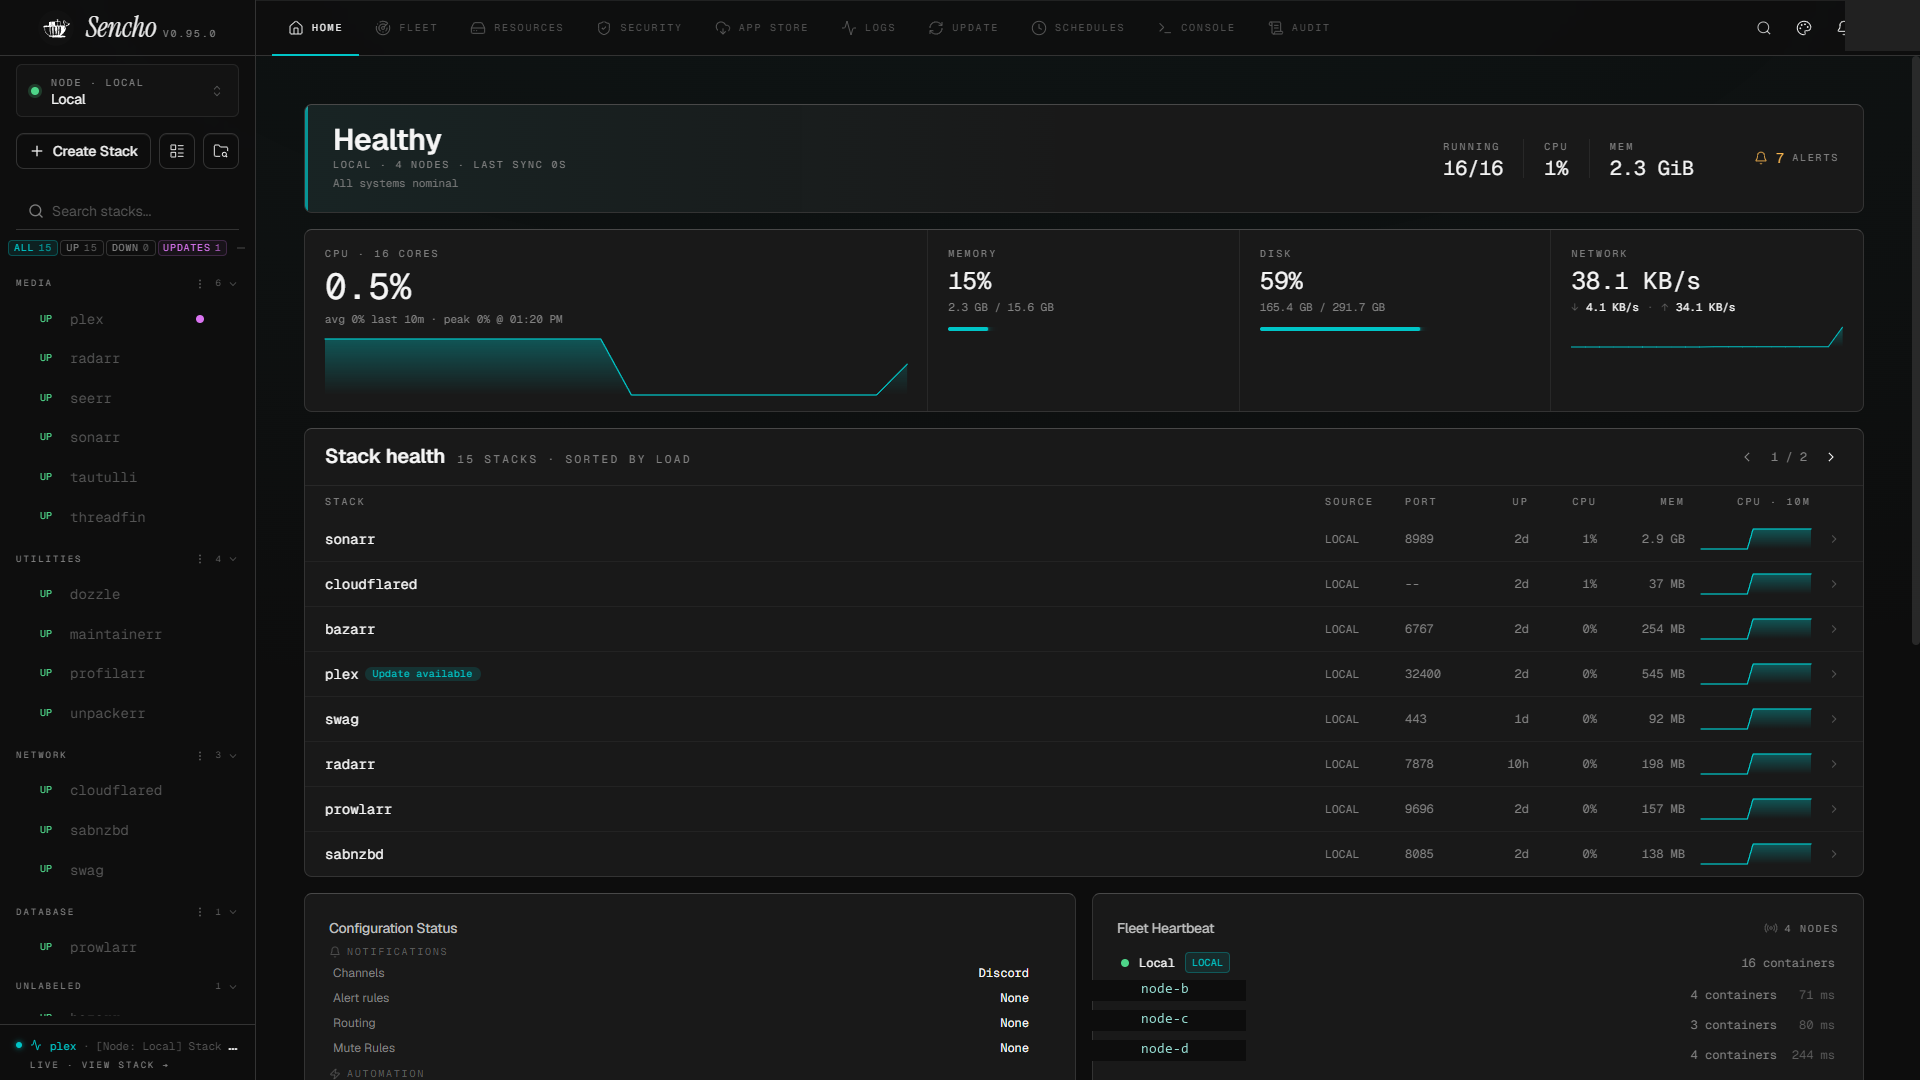
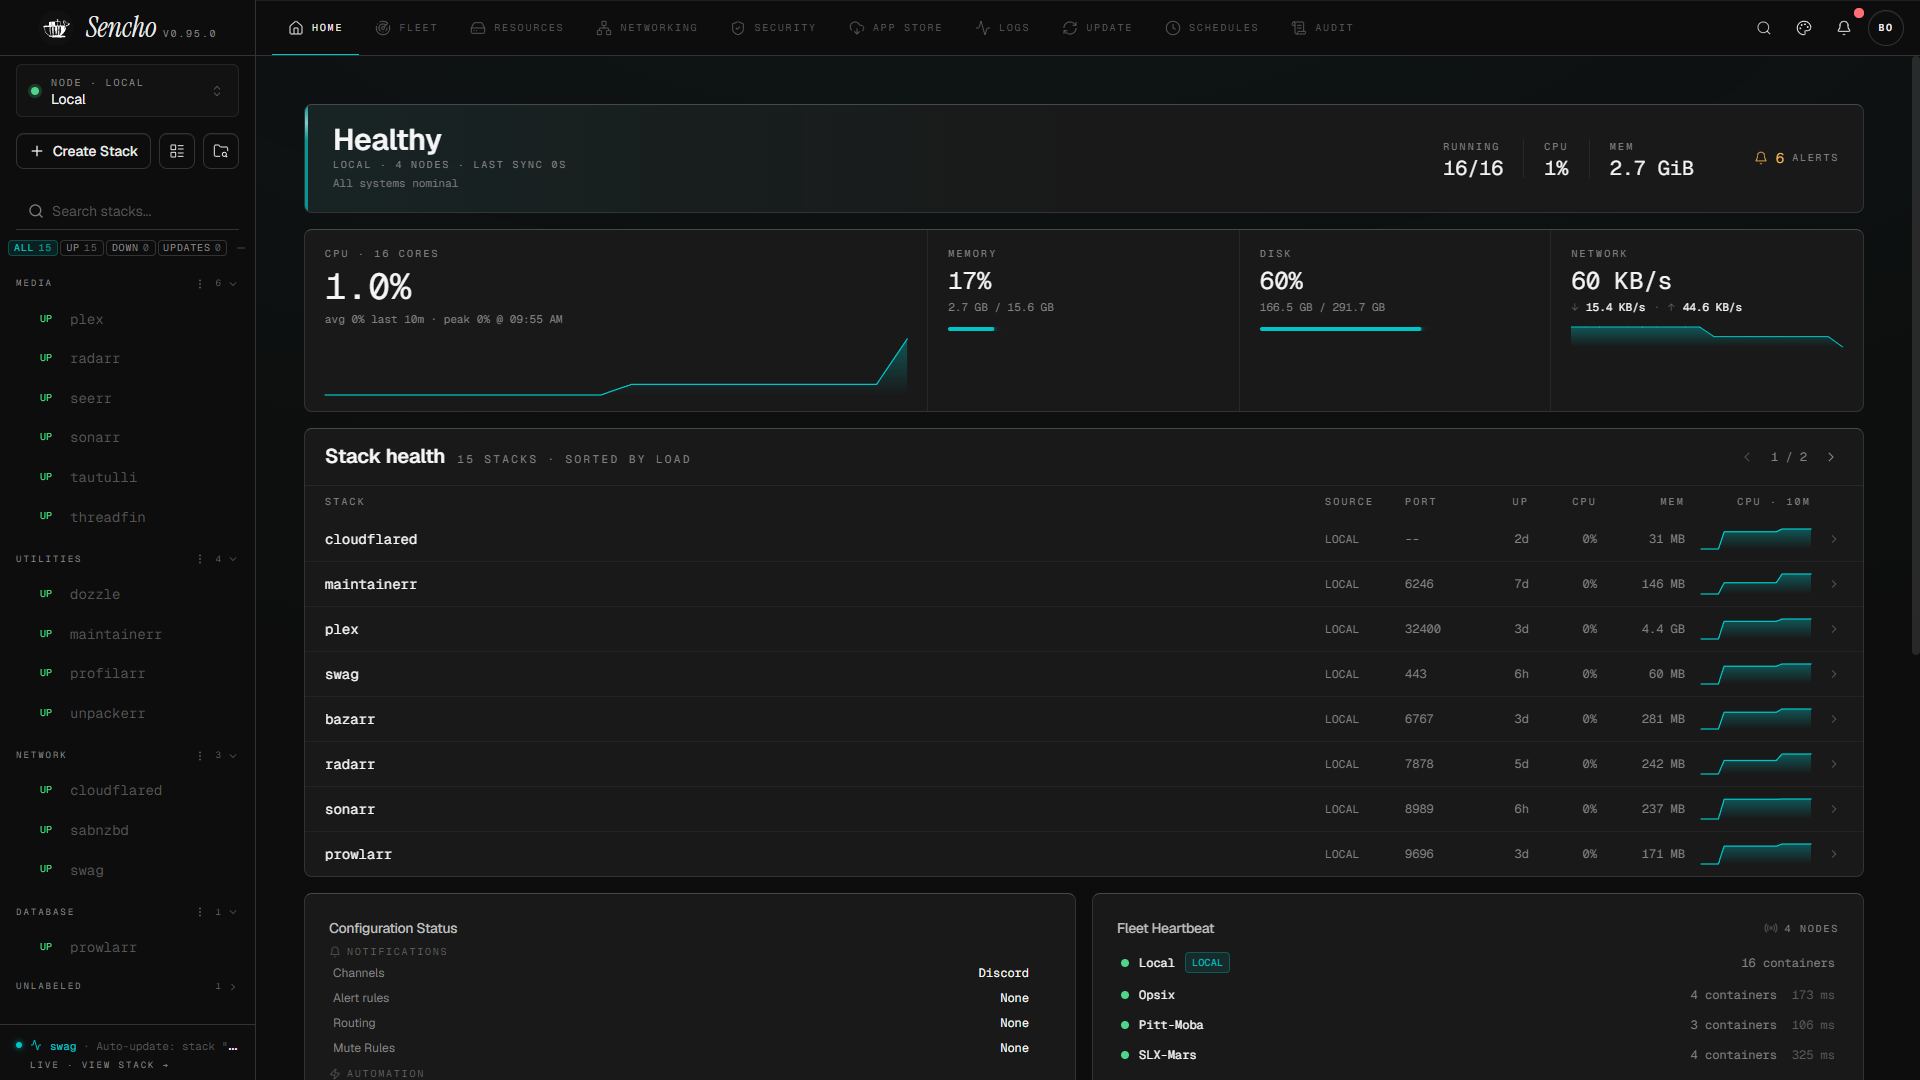
docs(readme): refresh GitHub README against current live app
Replace all 9 screenshots (stale top nav showing a removed Console
item and missing the new Networking page); document Take down,
Drift Detection, Environment and Secrets Guardrails, Storage
Portability, Docker Label Audit, Remote Updates, and the node-wide
Networking dashboard; fix a broken non-root-user anchor link; correct
the notification channels list (no email channel exists yet) and the
global search scope (pages, nodes, and stacks, not containers or
services); rename "scan policy packs" to the current "scan policies"
terminology; broaden the App Store bullet to cover custom registries.

diff --git a/README.md b/README.md
@@ -48,15 +48,18 @@ Sencho is free, open-source software under AGPLv3. Everything below is included 
 ## Capabilities
 
 ### Stacks
-- Full Compose lifecycle: create, deploy, restart, stop, pull
+- Full Compose lifecycle: create, deploy, restart, stop, take down, pull
 - Atomic deployments with automatic rollback on failure
 - Monaco editor with diff preview before save and one-click rollback to any prior deploy
 - [Health-gated updates](https://docs.sencho.io/features/health-gated-updates) that hold a rollout until health checks pass, with stalled-update detection and in-app recovery
 - [Git-sourced stacks](https://docs.sencho.io/features/git-sources) pulled and synced from any repository, with ordered multi-file Compose
 - [File explorer](https://docs.sencho.io/features/stack-file-explorer) for compose, env, and supporting files, with move and rename across directories
+- [Drift detection](https://docs.sencho.io/features/stack-drift) that compares running containers against the effective Compose model and flags exactly what changed
+- [Environment and secrets guardrails](https://docs.sencho.io/features/environment-guardrails) that inventory every variable a stack uses and flag missing or duplicate values, without ever exposing a value
+- [Storage portability](https://docs.sencho.io/features/compose-storage) checks that show whether a stack's mounts can move cleanly to another node before you move it
 - [Compose Doctor](https://docs.sencho.io/features/compose-doctor) preflight checks that catch compose problems before deploy
 - [Stack labels](https://docs.sencho.io/features/stack-labels) for grouping and bulk operations
-- [App Store](https://docs.sencho.io/features/app-store) with LinuxServer.io templates
+- [App Store](https://docs.sencho.io/features/app-store) with LinuxServer.io templates by default, or any custom Portainer-compatible registry
 
 ### Observability
 - Aggregated [log search and stream](https://docs.sencho.io/features/global-observability) across every container in the fleet
@@ -73,6 +76,8 @@ Sencho is free, open-source software under AGPLv3. Everything below is included 
 - [Fleet Federation](https://docs.sencho.io/features/fleet-federation): cordon nodes and pin Blueprints to specific hosts
 - [Fleet Actions](https://docs.sencho.io/features/fleet-actions): bulk label operations, fleet-wide stop-by-label, and fleet-wide prune
 - [Fleet Dossier](https://docs.sencho.io/features/fleet-dossier): export the whole fleet as a single browsable Markdown archive
+- [Docker Label Audit](https://docs.sencho.io/features/docker-label-audit) across every node, for labels that drive external automation
+- [Remote updates](https://docs.sencho.io/features/remote-updates): pull the latest image and recreate any node in the fleet from the Fleet view, no SSH session required
 - Node labels and grouping
 - [Pilot Agent](https://docs.sencho.io/features/pilot-agent) for nodes behind NAT or strict firewalls
 - Node compatibility checks before deploying
@@ -91,21 +96,22 @@ Sencho is free, open-source software under AGPLv3. Everything below is included 
 - [Security overview](https://docs.sencho.io/features/security) with a chart-led scan summary, sortable images, and searchable scan history
 - [Vulnerability scanning](https://docs.sencho.io/features/vulnerability-scanning) via Trivy, with on-demand node-wide scans, VEX-based suppression, SARIF export, and SBOM upload
 - [Compose network inspector](https://docs.sencho.io/features/compose-networking) with an exposure-intent guard for unintended published ports
-- Scan policy packs for reusable security rules
+- Node-wide network inventory, topology, and exposure findings across every stack on a node
+- [Scan policies](https://docs.sencho.io/features/vulnerability-scanning#scan-policies) that set severity thresholds and can block a deploy
 - [Private registries](https://docs.sencho.io/features/private-registries) for Docker Hub, GHCR, and custom registries, plus [deploy enforcement](https://docs.sencho.io/features/deploy-enforcement) for non-compliant images
 - [API tokens](https://docs.sencho.io/features/api-tokens) for automation
 
 ### Operations
 - Off-site stack archives via [custom S3-compatible storage](https://docs.sencho.io/operations/backup)
-- [Notification routing](https://docs.sencho.io/features/alerts-notifications#notification-routing) to Slack, Discord, email, and webhooks
-- [Global search](https://docs.sencho.io/features/global-search) across stacks, containers, and services
+- [Notification routing](https://docs.sencho.io/features/alerts-notifications#notification-routing) to Slack, Discord, and any generic webhook
+- [Global search](https://docs.sencho.io/features/global-search) across pages, nodes, and every stack in the fleet
 - [Resources view](https://docs.sencho.io/features/resources) for images, volumes, and networks with scoped prune actions
 
 ---
 
 ### Before you install
 
-Sencho talks to Docker through the host's `/var/run/docker.sock`. Mounting this socket grants Sencho the same privilege as `sudo docker` on the host. This is the same model used by Portainer, Dockge, Komodo, and other Compose dashboards. If your threat model requires stricter isolation, see [running with a non-root container user](https://docs.sencho.io/operations/self-hosting#non-root-user) and front Sencho with a reverse proxy that enforces authentication.
+Sencho talks to Docker through the host's `/var/run/docker.sock`. Mounting this socket grants Sencho the same privilege as `sudo docker` on the host. This is the same model used by Portainer, Dockge, Komodo, and other Compose dashboards. If your threat model requires stricter isolation, see [running with a non-root container user](https://docs.sencho.io/getting-started/configuration#container-user) and front Sencho with a reverse proxy that enforces authentication.
 
 ## Quick start
 
@@ -184,7 +190,7 @@ Sencho does not emit telemetry, analytics, or crash reports, and makes no outbou
 
 ## Admiral
 
-**Admiral** is Studio Saelix's paid business assurance plan on top of everything in Community: priority support, managed continuity (Sencho Cloud Backup), governance depth (advanced RBAC roles, LDAP / Active Directory, full audit log export and anomaly detection), and cross-node Fleet Sync policy replication. AWS ECR registry credentials currently require Admiral as well. See [sencho.io/pricing](https://sencho.io/pricing) for current plan details.
+**Admiral** is Studio Saelix's paid business assurance plan on top of everything in Community: Hardened Build, Recovery Vault (managed off-site snapshots), priority support, and governance depth (advanced RBAC roles, LDAP / Active Directory, full audit log export and anomaly detection). Fleet Sync policy replication and AWS ECR registry credentials currently require Admiral as well; those access rules are temporary availability, not the reason Admiral exists. See [sencho.io/pricing](https://sencho.io/pricing) for current plan details.
 
 ---
 
